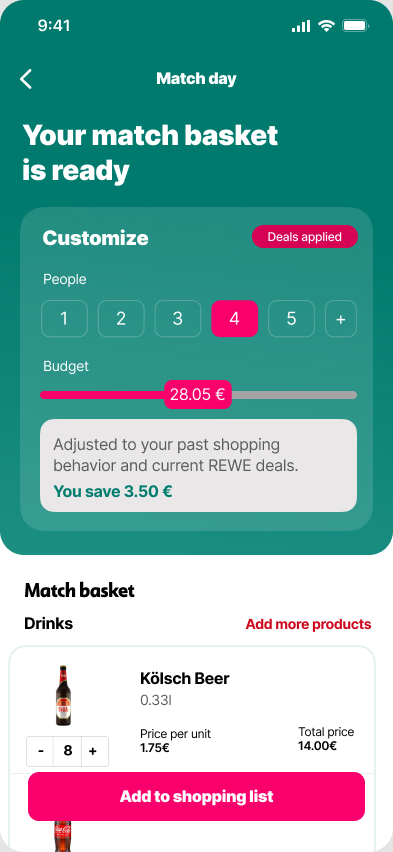
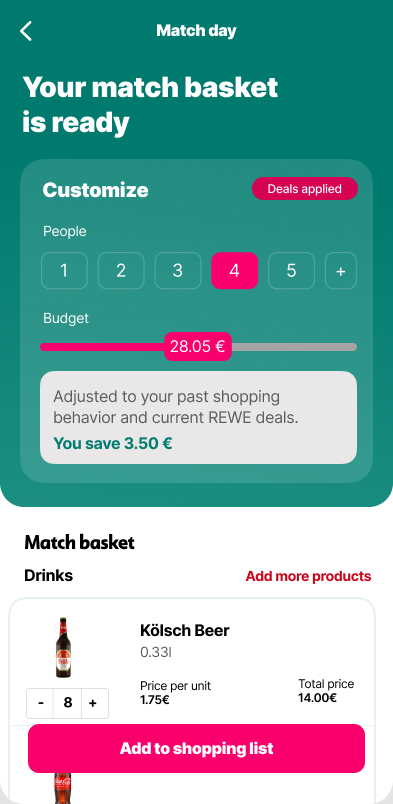
Prepare iPhone 15 GitHub Pages prototype

diff --git a/src/App.tsx b/src/App.tsx
@@ -31,7 +31,7 @@ const screens: Screen[] = [
       {
         label: 'Open match day card',
         left: 20,
-        top: 237,
+        top: 189,
         width: 353,
         height: 310,
         to: 'match-location',
@@ -39,7 +39,7 @@ const screens: Screen[] = [
       {
         label: 'Open match day planner',
         left: 40,
-        top: 473,
+        top: 425,
         width: 313,
         height: 54,
         to: 'match-location',
@@ -54,7 +54,7 @@ const screens: Screen[] = [
       {
         label: 'Back to home',
         left: 16,
-        top: 65,
+        top: 17,
         width: 36,
         height: 36,
         to: 'home',
@@ -62,21 +62,21 @@ const screens: Screen[] = [
       {
         label: 'Watching at home',
         left: 21,
-        top: 253,
+        top: 205,
         width: 351,
         height: 151,
       },
       {
         label: 'Going to the stadium',
         left: 20,
-        top: 423,
+        top: 375,
         width: 352,
         height: 151,
       },
       {
         label: 'Continue',
         left: 28,
-        top: 773,
+        top: 725,
         width: 337,
         height: 48,
         to: 'customize-basket',
@@ -91,7 +91,7 @@ const screens: Screen[] = [
       {
         label: 'Back to match location',
         left: 16,
-        top: 65,
+        top: 17,
         width: 36,
         height: 36,
         to: 'match-location',
@@ -99,7 +99,7 @@ const screens: Screen[] = [
       {
         label: 'Add to shopping list',
         left: 28,
-        top: 773,
+        top: 725,
         width: 337,
         height: 48,
         to: 'ready-basket',
@@ -114,7 +114,7 @@ const screens: Screen[] = [
       {
         label: 'Back to customize basket',
         left: 16,
-        top: 65,
+        top: 17,
         width: 36,
         height: 36,
         to: 'customize-basket',
@@ -122,7 +122,7 @@ const screens: Screen[] = [
       {
         label: 'Shop your way',
         left: 28,
-        top: 773,
+        top: 725,
         width: 337,
         height: 48,
       },
@@ -174,6 +174,10 @@ export function App() {
     window.addEventListener('keydown', onKeyDown);
     return () => window.removeEventListener('keydown', onKeyDown);
   }, []);
+
+  useEffect(() => {
+    window.scrollTo(0, 0);
+  }, [screenId]);
 
   return (
     <main className="prototype-stage" aria-label="REWE loyalty click prototype">

diff --git a/src/styles.css b/src/styles.css
@@ -22,6 +22,7 @@ body,
 
 body {
   background: #e4e4e4;
+  overflow-x: hidden;
 }
 
 button {
@@ -30,34 +31,29 @@ button {
 
 .prototype-stage {
   --screen-width: 393;
-  --screen-height: 852;
-  --fit-scale: min(
-    calc((100vw - 32px) / var(--screen-width)),
-    calc((100svh - 32px) / var(--screen-height)),
-    1
-  );
+  --screen-height: 804;
+  --fit-scale: min(calc(100vw / var(--screen-width)), 1);
 
   display: grid;
   min-height: 100svh;
-  place-items: center;
-  padding: 16px;
+  place-items: start center;
+  padding: env(safe-area-inset-top) 0 env(safe-area-inset-bottom);
 }
 
 .phone-shell {
   position: relative;
   width: 393px;
-  height: 852px;
+  height: 804px;
   overflow: visible;
   background: #ffffff;
-  box-shadow: 0 18px 50px rgb(0 0 0 / 8%);
   transform: scale(var(--fit-scale));
-  transform-origin: center;
+  transform-origin: top center;
 }
 
 .screen-image {
   display: block;
   width: 393px;
-  height: 852px;
+  height: 804px;
   user-select: none;
 }
 

diff --git a/index.html b/index.html
@@ -2,7 +2,11 @@
 <html lang="en">
   <head>
     <meta charset="UTF-8" />
-    <meta name="viewport" content="width=device-width, initial-scale=1.0" />
+    <meta
+      name="viewport"
+      content="width=device-width, initial-scale=1.0, viewport-fit=cover"
+    />
+    <meta name="theme-color" content="#008a7a" />
     <title>REWE Loyalty Click Prototype</title>
   </head>
   <body>

diff --git a/vite.config.ts b/vite.config.ts
@@ -2,5 +2,6 @@ import react from '@vitejs/plugin-react';
 import { defineConfig } from 'vite';
 
 export default defineConfig({
+  base: '/rewe/',
   plugins: [react()],
 });

diff --git a/README.md b/README.md
@@ -4,7 +4,7 @@ React/Vite dummy click prototype based on the Figma selection:
 
 `https://www.figma.com/design/XIiPagYAEkq2gtLIkqWiwV/Rewe-App-Loyalty--Future-Concept?node-id=62-5242`
 
-The visible phone screens are direct PNG exports from the selected Figma section, kept at the original 393 x 852 frame size. Invisible hotspots sit on top of the exported screens for click-through behavior.
+The visible phone screens are derived from direct PNG exports from the selected Figma section. The iOS status/notification bar is cropped out, leaving the 393 x 804 app content area for browser viewing on an iPhone 15. Invisible hotspots sit on top of the exported screens for click-through behavior.
 
 ## Run
 
